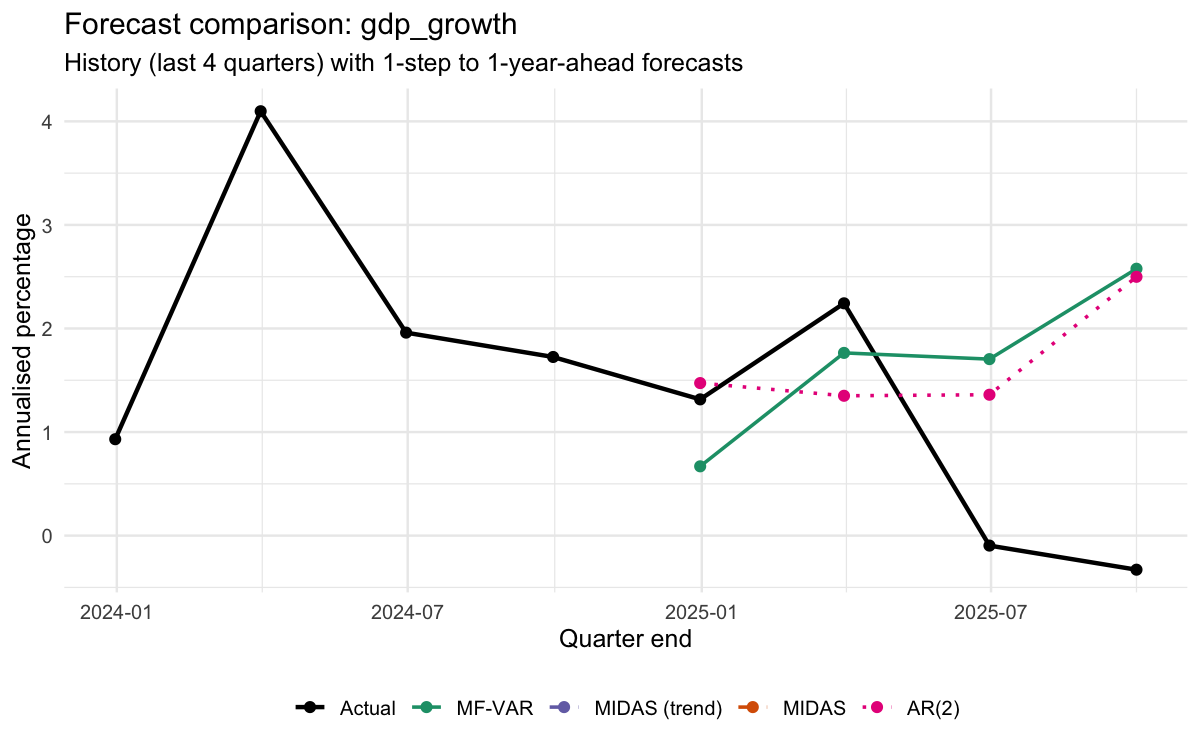
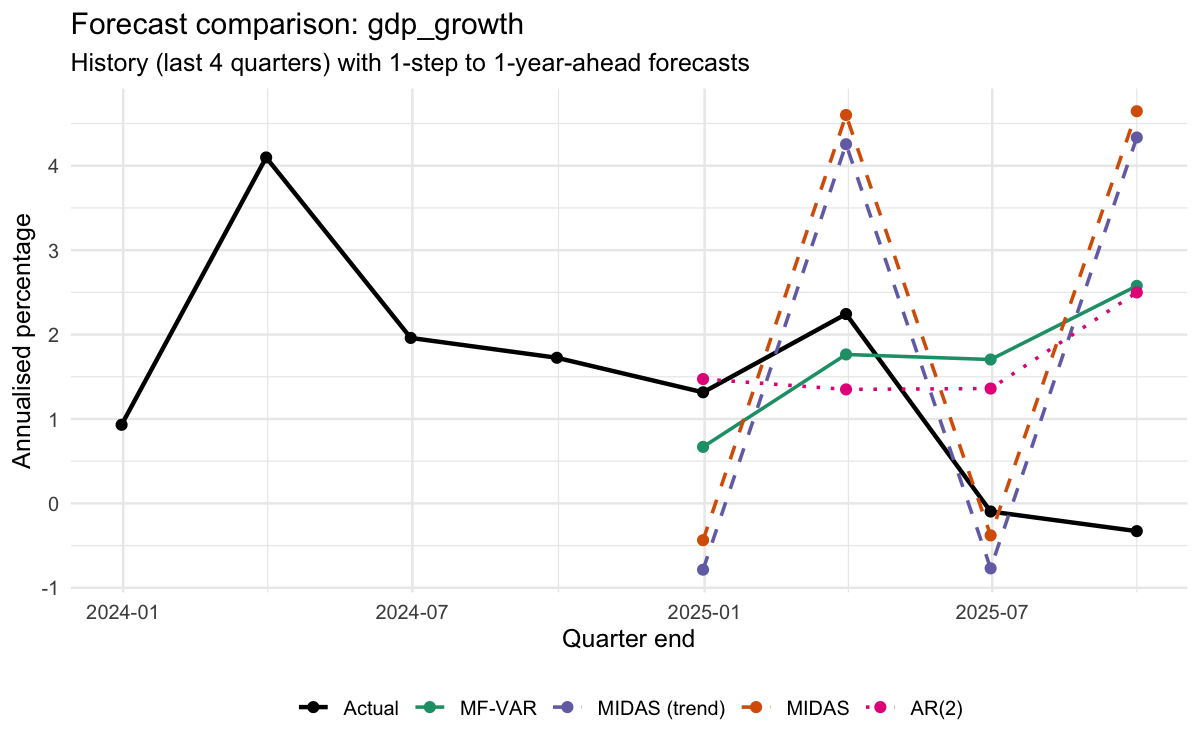
Midas now works again in benchmark!

diff --git a/submission/output/benchmarks/model_benchmark_summary.md b/submission/output/benchmarks/model_benchmark_summary.md
@@ -7,10 +7,10 @@
 | AR(2) | 1-year ahead | 3 | 1.6470 | 1.0700 |
 | MF-VAR | 1-step ahead | 3 | 0.3775 | 0.2526 |
 | MF-VAR | 1-year ahead | 3 | 1.7000 | 1.1287 |
-| MIDAS | 1-step ahead | 0 | NA | NA |
-| MIDAS | 1-year ahead | 0 | NA | NA |
-| MIDAS (trend) | 1-step ahead | 0 | NA | NA |
-| MIDAS (trend) | 1-year ahead | 0 | NA | NA |
+| MIDAS | 1-step ahead | 3 | 1.0114 | 0.5926 |
+| MIDAS | 1-year ahead | 3 | 2.8735 | 1.7123 |
+| MIDAS (trend) | 1-step ahead | 3 | 1.2146 | 0.7355 |
+| MIDAS (trend) | 1-year ahead | 3 | 2.6937 | 1.6040 |
 
 
 ## Holdout Overall Average Errors
@@ -18,8 +18,8 @@
 | --- | --- | --- | --- |
 | AR(2) | 12 | 0.9712 | 0.5480 |
 | MF-VAR | 12 | 1.0264 | 0.5654 |
-| MIDAS | 0 | NA | NA |
-| MIDAS (trend) | 0 | NA | NA |
+| MIDAS | 12 | 1.6789 | 0.8619 |
+| MIDAS (trend) | 12 | 1.6022 | 0.8409 |
 
 
 ## Rolling Cross-Validation RMSE and MAE by Monthly Coverage
